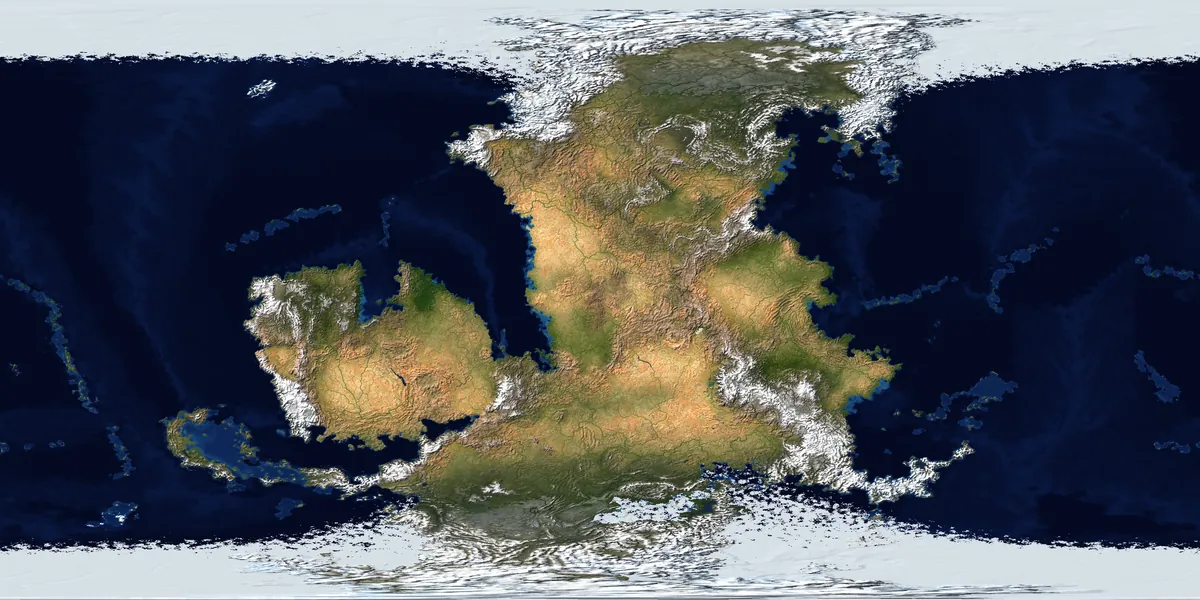
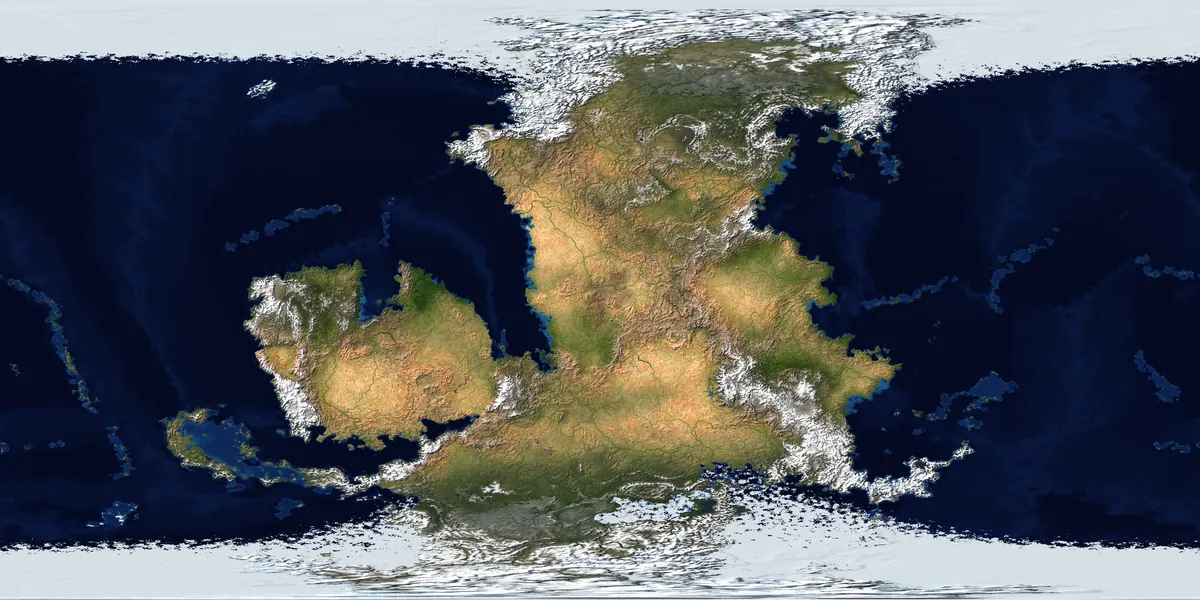
Studio: Evolution's worlds retaken with main's varied ridges
Main now draws Evolution's ridges with the variety the owner asked for on
2026-10-28 (#145): old belts a little less even, ridges undulating at every
scale, ridge noise at three. With it merged into the stack, Calder and
Linmore were rebuilt from the same links in the owner's Chrome 155 (the same
histories and continents), detailed at 2.5M cells and drawn by Evolution's
Export maps: Satellite, Terrain and Rocks for the Studio's cards, and
Linmore's four maps and still for the hero's turning globe.

diff --git a/plans/REDESIGN_PLAN.md b/plans/REDESIGN_PLAN.md
@@ -492,7 +492,9 @@ each checked in the browser.
   cells and drawn by this stack's own Export maps at 4096 px. Once main took the Generate redesign (#144) and the stack
   merged it, Generate's were retaken (the owner's ask): the same planet codes and so the same continents, main's ranges,
   drawn by its Export maps at 2048 px in this stack's look; Evolution's, rebuilt on the merged code, came out byte for
-  byte the same. Import's still come from the shared core's switch-over (generate/u5-switch-over, PR #134), before this
+  byte the same (#144 left Evolution's ridges as they were). Once main took Evolution's ridges with variety (#145), the
+  stack merged it again and Calder, Linmore and the turning globe's maps and still were retaken the same way: the same
+  continents, their ridges more varied. Import's still come from the shared core's switch-over (generate/u5-switch-over, PR #134), before this
   stack's light and colours (R5, R6).
 - [x] Copy (the owner's words): the hero's buttons read **Generate your world** and **Evolve your world**; Import
   Heightmap is now just **Import**, one word like Generate and Evolution (the nav, its page, the Studio, the exports'
